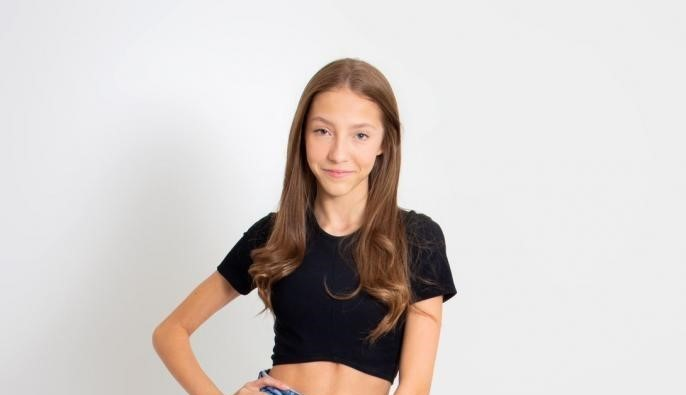
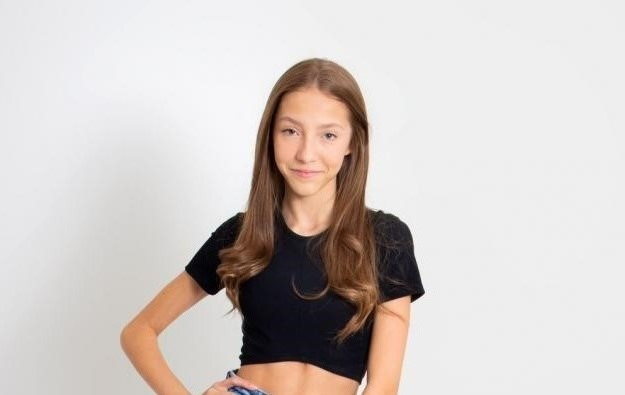
quase tudo pronto no alinhamento

diff --git a/noticias.html b/noticias.html
@@ -10,7 +10,8 @@
 <body>
     <!--Barra de Navegação-->
     <div class="header">
-        <div class="logo">LIVIA MOORE</div>
+        <div class="logo">LIVIA</div>
+        <div class="moore">MOORE</div>
         <div class="links">
             <a href="index.html" class="link-dark link-underline-opacity-0">INÍCIO</a>
             <a href="noticias.html" class="link-dark">NOTÍCIAS</a>
@@ -18,7 +19,7 @@
             <a href="projAudiovisual.html" class="link-dark link-underline-opacity-0">VÍDEOS</a>
         </div>
         <div class="email">
-            <button type="button" class="btn btn-light"><a href="https://mail.google.com/mail/u/0/#inbox?compose=new" target="_blank" class="linkEmail">Mande um email</a></button>
+            <button type="button" class="btn btn-light"><a href="https://mail.google.com/mail/u/0/#inbox?compose=new" target="_blank" class="linkEmail"><img src="imagens/mail2.svg" alt=""></a></button>
         </div>
     </div>
 
@@ -27,10 +28,10 @@
     
     <div class="container">
         <div class="row">
-            <div class="col-4">
+            <div class="col-md-4">
                 <!--Card-->
-                <div class="card" style="width: 20rem;">
-                    <img src="imagens/noticia1.jpg" class="card-img-top">
+                <div class="card marginNoticia" style="width: 26rem;">
+                    <img src="imagens/noticia1.jpg" class="card-img-top" style="height: 15rem;">
                     <div class="card-body">
                         <p class="card-text">Livía Moore encanta e é ovacionada pelos 100 jurados</p>
                       <p class="card-text"><a href="https://record.r7.com/canta-comigo-teen-3/videos/livia-moore-encanta-e-e-ovacionada-pelos-100-jurados-04072022/" target="_blank" class="noticia">Link da Notícia</a></p>
@@ -38,9 +39,9 @@
                   </div>
             </div>
 
-            <div class="col-4">
-                <div class="card" style="width: 20rem;">
-                    <img src="imagens/noticia2.jpg" class="card-img-top">
+            <div class="col-md-4">
+                <div class="card marginNoticia" style="width: 26rem;">
+                    <img src="imagens/noticia2.jpg" class="card-img-top" style="height: 15rem;">
                     <div class="card-body">
                         <p class="card-text">Lívia Moore abre festival Voz de Estudante</p>
                       <p class="card-text"><a href="https://cordeiropolis.corderovirtual.com.br/noticias/21477/musica/livia-moore-abre-festival-voz-de-estudante" target="_blank" class="noticia">Link da Notícia</a></p>
@@ -48,26 +49,25 @@
                   </div>
             </div>
 
-            <div class="col-4">
-                <div class="col-4">
-                    <div class="card" style="width: 20rem;">
-                        <img src="imagens/noticia3.jpg" class="card-img-top">
-                        <div class="card-body">
-                            <p class="card-text">Nossa Gente: Lívia Moore encanta e lança Personagem, seu primeiro single</p>
-                          <p class="card-text"><a href="https://www.gazetadelimeira.com.br/local/nossa-gente-livia-moore-encanta-e-lanca-personagem-seu-primeiro-single" target="_blank" class="noticia">Link da Notícia</a></p>
-                        </div>
-                      </div>
+            <div class="col-md-4">
+                <div class="card marginNoticia" style="width: 26rem;">
+                    <img src="imagens/noticia3.jpg" class="card-img-top" style="height: 15rem;">
+                    <div class="card-body">
+                        <p class="card-text">Lívia Moore encanta e lança Personagem, seu primeiro single</p>
+                        <p class="card-text"><a href="https://www.gazetadelimeira.com.br/local/nossa-gente-livia-moore-encanta-e-lanca-personagem-seu-primeiro-single" target="_blank" class="noticia">Link da Notícia</a></p>
+                    </div>
                 </div>
             </div>
+            
         </div>
 
         <br><br>
 
         <div class="row">
-            <div class="col-6">
+            <div class="col-md-6">
                 <!--Card-->
-                <div class="card" style="width: 20rem; margin-left: 35%;">
-                    <img src="imagens/noticia4.jpg" class="card-img-top">
+                <div class="card noticiaBaixo marginNoticia" style="width: 26rem;">
+                    <img src="imagens/noticia4.jpg" class="card-img-top" style="height: 15rem;">
                     <div class="card-body">
                         <p class="card-text">Cantora de Limeira participa do programa “Canta Comigo Teen”</p>
                       <p class="card-text"><a href="https://www.gazetadelimeira.com.br/local/cantora-de-limeira-participa-do-programa-canta-comigo-teen" target="_blank" class="noticia">Link da Notícia</a></p>
@@ -75,9 +75,9 @@
                   </div>
             </div>
 
-            <div class="col-6">
-                <div class="card" style="width: 20rem;">
-                    <img src="imagens/noticia5.jpg" class="card-img-top" height="200vh">
+            <div class="col-md-6">
+                <div class="card marginNoticia" style="width: 26rem;">
+                    <img src="imagens/noticia5.jpg" class="card-img-top" style="height: 15rem;">
                     <div class="card-body">
                         <p class="card-text">Livia Moore conquista 85 jurados com sucesso de Carrie Underwood</p>
                       <p class="card-text"><a href="https://record.r7.com/canta-comigo-teen-3/videos/livia-moore-conquista-85-jurados-com-sucesso-de-carrie-underwood-11092022/" target="_blank" class="noticia">Link da Notícia</a></p>

diff --git a/projFotos.html b/projFotos.html
@@ -10,7 +10,8 @@
 <body>
     <!--Barra de Navegação-->
     <div class="header">
-        <div class="logo">LIVIA MOORE</div>
+        <div class="logo">LIVIA</div>
+        <div class="moore">MOORE</div>
         <div class="links">
             <a href="index.html" class="link-dark link-underline-opacity-0">INÍCIO</a>
             <a href="noticias.html" class="link-dark link-underline-opacity-0">NOTÍCIAS</a>
@@ -18,7 +19,7 @@
             <a href="projAudiovisual.html" class="link-dark link-underline-opacity-0">VÍDEOS</a>
         </div>
         <div class="email">
-            <button type="button" class="btn btn-light"><a href="https://mail.google.com/mail/u/0/#inbox?compose=new" target="_blank" class="linkEmail">Mande um email</a></button>
+            <button type="button" class="btn btn-light"><a href="https://mail.google.com/mail/u/0/#inbox?compose=new" target="_blank" class="linkEmail"><img src="imagens/mail2.svg" alt=""></a></button>
         </div>
     </div>
 
@@ -26,20 +27,20 @@
     <div class="container">
         <br>
         <div class="row">
-            <div class="col-3">
-                <img src="imagens/foto1.jpg" width="300vh">
-                <p class="legenda">ASSIM COMO UMA FORMIGA</p>
+            <div class="col-md-3">
+                <img src="imagens/foto1.jpg" width="100%">
+                <p class="legenda">ANT</p>
             </div>
-            <div class="col-3">
-                <img src="imagens/foto2.jpg" width="300vh">
+            <div class="col-md-3">
+                <img src="imagens/foto2.jpg" width="100%">
                 <p class="legenda">SÃO PAULO</p>
             </div>
-            <div class="col-3">
-                <img src="imagens/foto3.jpg" width="300vh">
+            <div class="col-md-3">
+                <img src="imagens/foto3.jpg" width="100%">
                 <p class="legenda">VISÃO</p>
             </div>
-            <div class="col-3">
-                <img src="imagens/foto4.jpg" width="300vh">
+            <div class="col-md-3">
+                <img src="imagens/foto4.jpg" width="100%">
                 <p class="legenda">O HOMEM NO QUADRO</p>
             </div>
         </div>
@@ -47,18 +48,18 @@
         <br>
 
         <div class="row" style="margin-left: 12vh;">
-            <div class="col-4">
+            <div class="col-md-4">
                 <div class="imagem">
-                    <img src="imagens/foto5.jpg" width="300vh">
+                    <img src="imagens/foto5.jpg" width="80%">
                 </div>
                 <p class="legenda">AS ESCADAS</p>
             </div>
-            <div class="col-4">
-                <img src="imagens/foto6.jpg" width="300vh">
+            <div class="col-md-4">
+                <img src="imagens/foto6.jpg" width="80%">
                 <p class="legenda">MURAL</p>
             </div>
-            <div class="col-4">
-                <img src="imagens/foto7.jpg" width="300vh">
+            <div class="col-md-4">
+                <img src="imagens/foto7.jpg" width="80%">
                 <p class="legenda">SHE</p>
             </div>
         </div>

diff --git a/projAudiovisual.html b/projAudiovisual.html
@@ -10,7 +10,8 @@
 <body>
     <!--Barra de Navegação-->
     <div class="header">
-        <div class="logo">LIVIA MOORE</div>
+        <div class="logo">LIVIA</div>
+        <div class="moore">MOORE</div>
         <div class="links">
             <a href="index.html" class="link-dark link-underline-opacity-0">INÍCIO</a>
             <a href="noticias.html" class="link-dark link-underline-opacity-0">NOTÍCIAS</a>
@@ -18,7 +19,7 @@
             <a href="projAudiovisual.html" class="link-dark">VÍDEOS</a>
         </div>
         <div class="email">
-            <button type="button" class="btn btn-light"><a href="https://mail.google.com/mail/u/0/#inbox?compose=new" target="_blank" class="linkEmail">Mande um email</a></button>
+            <button type="button" class="btn btn-light"><a href="https://mail.google.com/mail/u/0/#inbox?compose=new" target="_blank" class="linkEmail"><img src="imagens/mail2.svg" alt=""></a></button>
         </div>
     </div>
 
@@ -26,22 +27,26 @@
     <br><br>
     <div class="container">
         <div class="row">
-            <div class="col-6">
+            <div class="col-md-6">
                 <iframe src="https://www.youtube.com/embed/rWaCEQu2s8Y" frameborder="0" width="100%" height="350vh"></iframe>
+                <p class="legenda">Livia Moore - Canta comigo teen 3</p>
             </div>
-            <div class="col-6">
+            <div class="col-md-6">
                 <iframe src="https://www.youtube.com/embed/-B3YBIK4xNw" frameborder="0" width="100%" height="350vh"></iframe>
+                <p class="legenda">Filme minuto "mais um"</p>
             </div>
         </div>
 
         <br><br>
 
         <div class="row">
-            <div class="col-6">
+            <div class="col-md-6">
                 <iframe src="https://www.youtube.com/embed/brTZ0gno0A8" frameborder="0" width="100%" height="350vh"></iframe>
+                <p class="legenda">Vídeo apresentação</p>
             </div>
-            <div class="col-6">
+            <div class="col-md-6">
                 <iframe src="https://www.youtube.com/embed/V3nHbwN9dSc" frameborder="0" width="100%" height="350vh"></iframe>
+                <p class="legenda">Curta Metragem - A última gota</p>
             </div>
         </div>
 

diff --git a/index.html b/index.html
@@ -6,12 +6,13 @@
     <title>Início</title>
     <link rel="stylesheet" type="text/css" href="style.css"/>
     <link href="https://cdn.jsdelivr.net/npm/bootstrap@5.3.3/dist/css/bootstrap.min.css" rel="stylesheet" integrity="sha384-QWTKZyjpPEjISv5WaRU9OFeRpok6YctnYmDr5pNlyT2bRjXh0JMhjY6hW+ALEwIH" crossorigin="anonymous">
-    
+
 </head>
 <body>
     <!--Barra de Navegação-->
     <div class="header">
-        <div class="logo">LIVIA MOORE</div>
+        <div class="logo">LIVIA</div>
+        <div class="moore">MOORE</div>
         <div class="links">
             <a href="index.html" class="link-dark">HOME</a>
             <a href="noticias.html" class="link-dark link-underline-opacity-0">NOTÍCIAS</a>
@@ -19,21 +20,21 @@
             <a href="projAudiovisual.html" class="link-dark link-underline-opacity-0">VÍDEOS</a>
         </div>
         <div class="email">
-            <button type="button" class="btn btn-light"><a href="https://mail.google.com/mail/u/0/#inbox?compose=new" target="_blank" class="linkEmail">Mande um email</a></button>
+            <button type="button" class="btn btn-light"><a href="https://mail.google.com/mail/u/0/#inbox?compose=new" target="_blank" class="linkEmail"><img src="imagens/mail2.svg" alt=""></a></button>
         </div>
     </div>
 
     <!--Corpo-->
     <div class="container">
         <div class="index">
-            <br><br><br>
+            <br><br>
             <div class="row">
-                <div class="col-4">
+                <div class="col-md-4">
                     <br>
                     <p class="textoIndex">ATRIZ, CANTORA E FUTURA CINEASTA</p>
                 </div>
-                <div class="col-8">
-                    <img src="imagens/fotoIndex.jpg" class="imagemIndex">
+                <div class="col-md-8">
+                    <img src="imagens/fotoIndex.jpg" style="width: 90%;">
                 </div>
             </div>
         </div>

diff --git a/style.css b/style.css
@@ -12,13 +12,23 @@
     font-size: 6vh;
     font-weight: lighter;
     padding-left: 3vh;
+    margin-right: 0vh;
+}
+.moore{
+    font-family: 'Impact', sans-serif;
+    font-size: 6vh;
+    font-weight: lighter;
+    padding-left: 3vh;
+    color: #a87b05;
+    margin-left: 0vh;
+    padding-left: 1vh;
 }
 .links{
     padding-left: 25%;
     padding-right: 25%;
 }
 .email{
-    padding-right: 1.5vh;
+    padding-right: 1vh;
 }
 .linkEmail{
     color: #000;    
@@ -32,7 +42,7 @@ a{
 
 .legenda{
     font-family: 'Impact', sans-serif;
-    font-size: 2.5vh;
+    font-size: 2.2vh;
     font-weight: lighter;
     margin-left: 0.5vh;
 }
@@ -61,7 +71,39 @@ a{
     color: #000;    
     margin-left: 0%;
 }
-/*.imagem{
-    border-bottom: 0.5vh solid #a87b05;
-    border-right: 0.5vh solid #a87b05;
-}*/
+.noticiaBaixo{
+    margin-left: 26vh;
+}
+.marginNoticia{
+    margin-bottom: 0;
+}
+
+
+/*Media Query*/
+@media (max-width: 768px) {
+    .logo{
+        font-size: 4vh;
+    }
+    .moore{
+        font-size: 4vh;
+    }
+    .textoIndex{
+        font-size: 7vh;
+    }
+    .textoIndex{
+        margin-top: 10%;
+        margin-bottom: 20%;
+    }
+    .noticiaBaixo{
+        margin-left: 0vh;
+    }
+    .links{
+        padding-left: 10%;
+        padding-right: 10%;
+    }
+    .marginNoticia{
+        margin-bottom: 10%;
+        margin-left: 10%;
+    }
+    
+}
